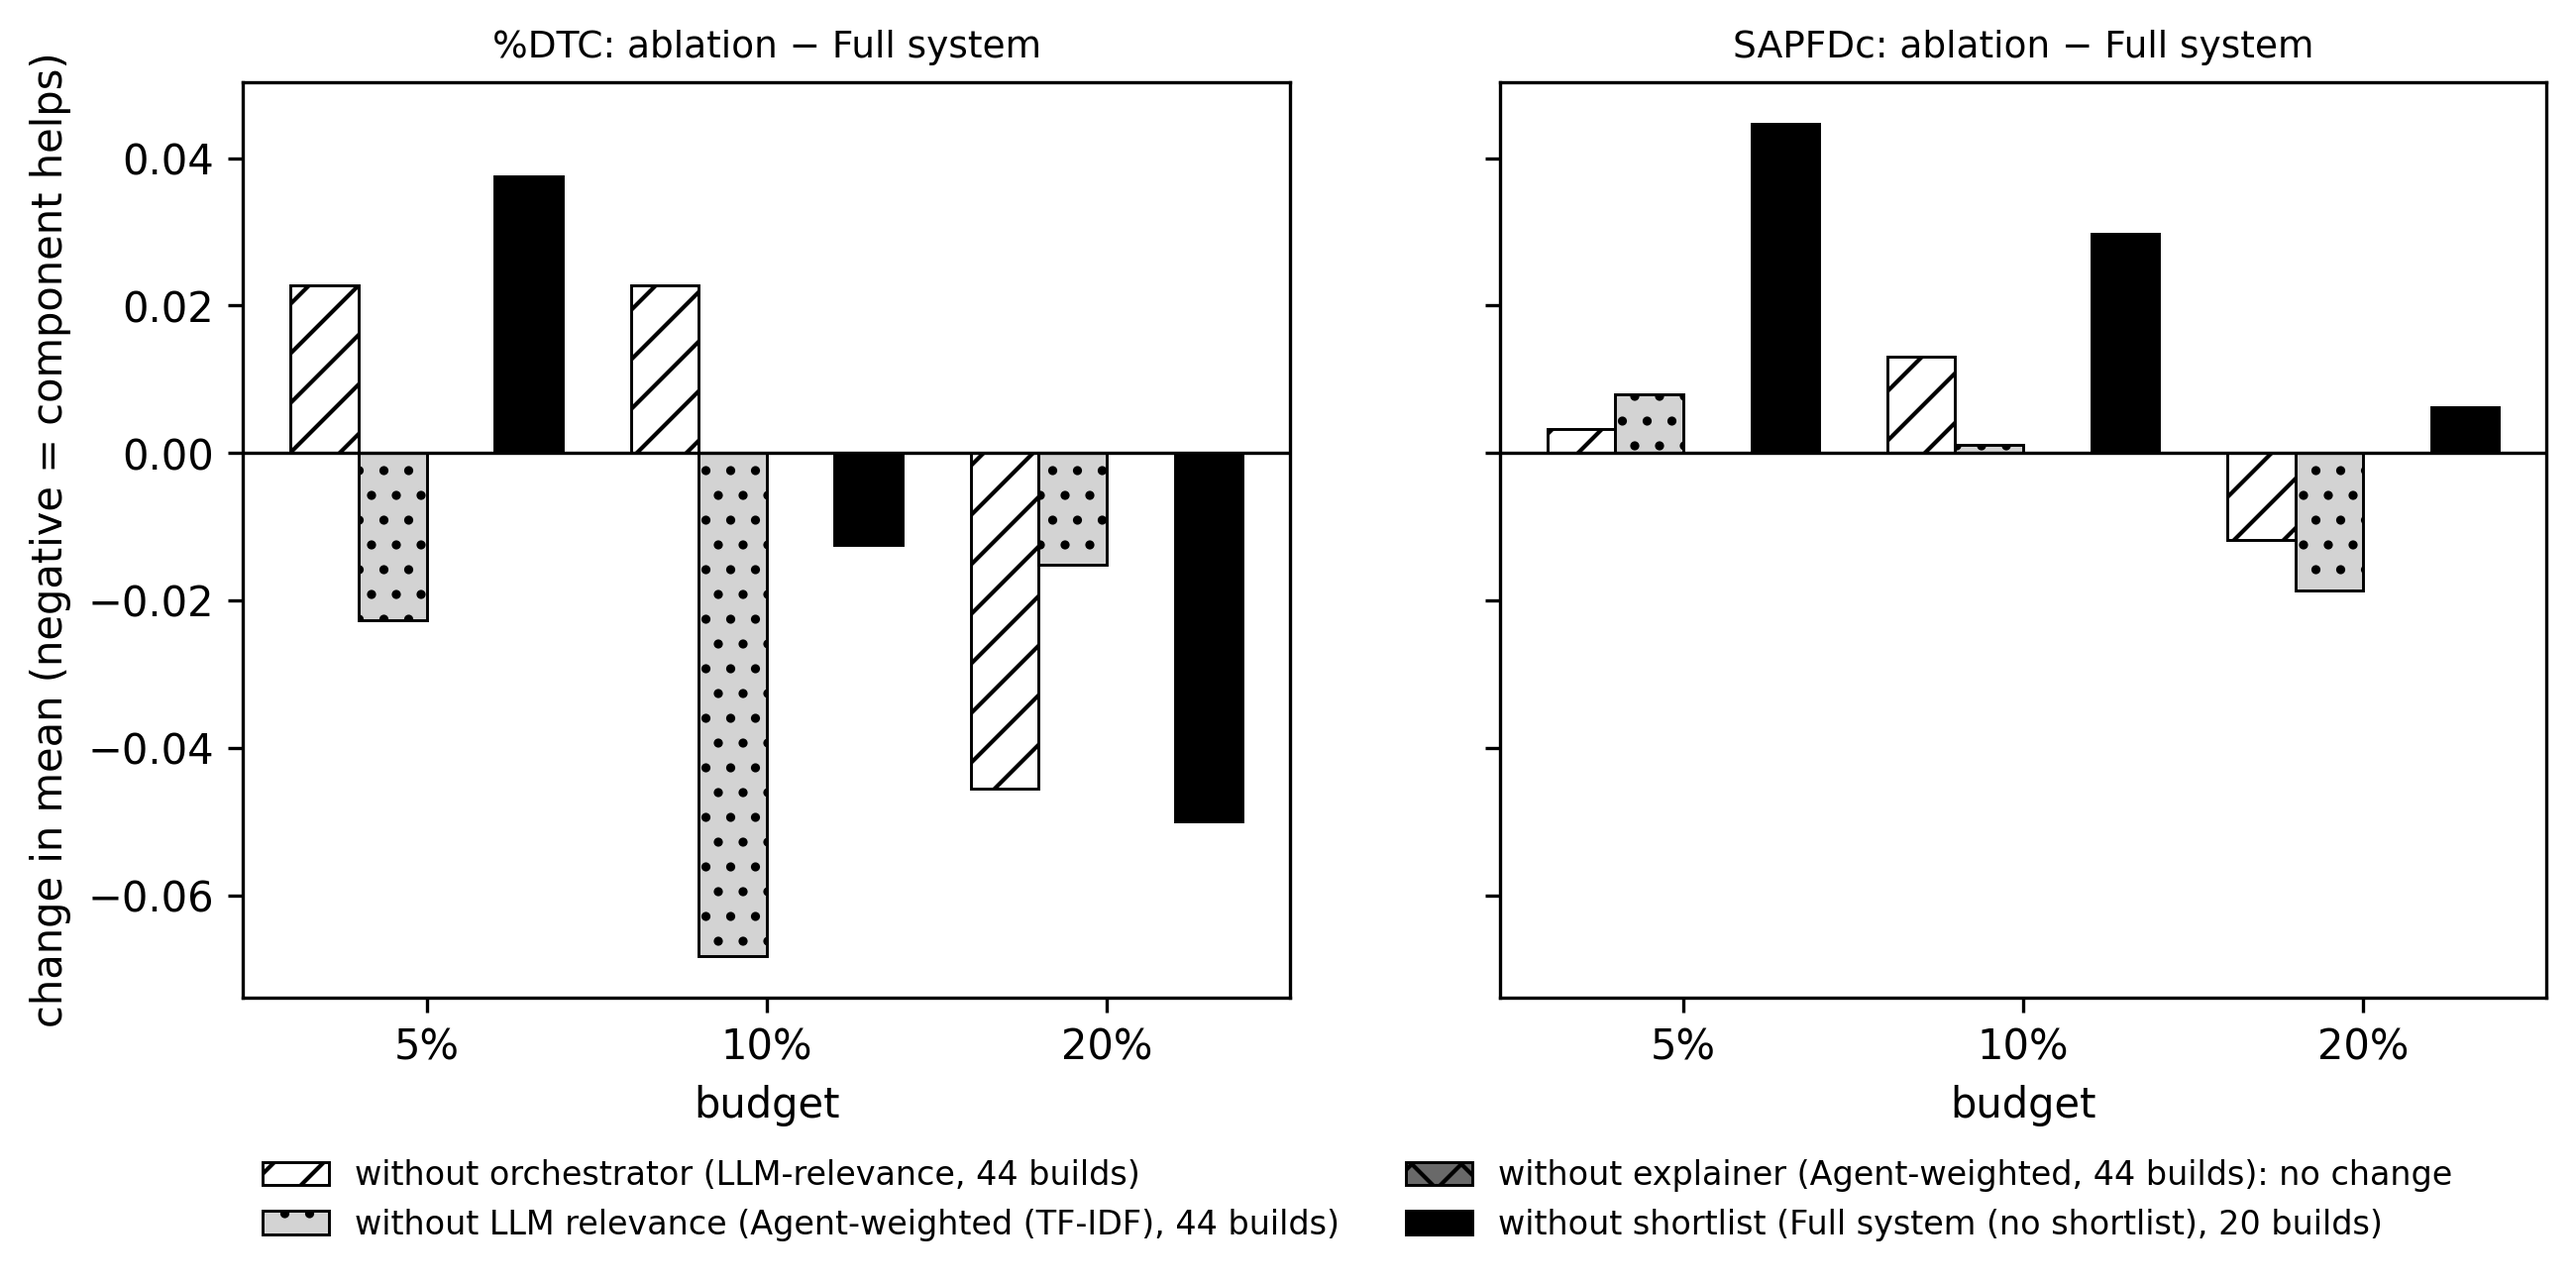
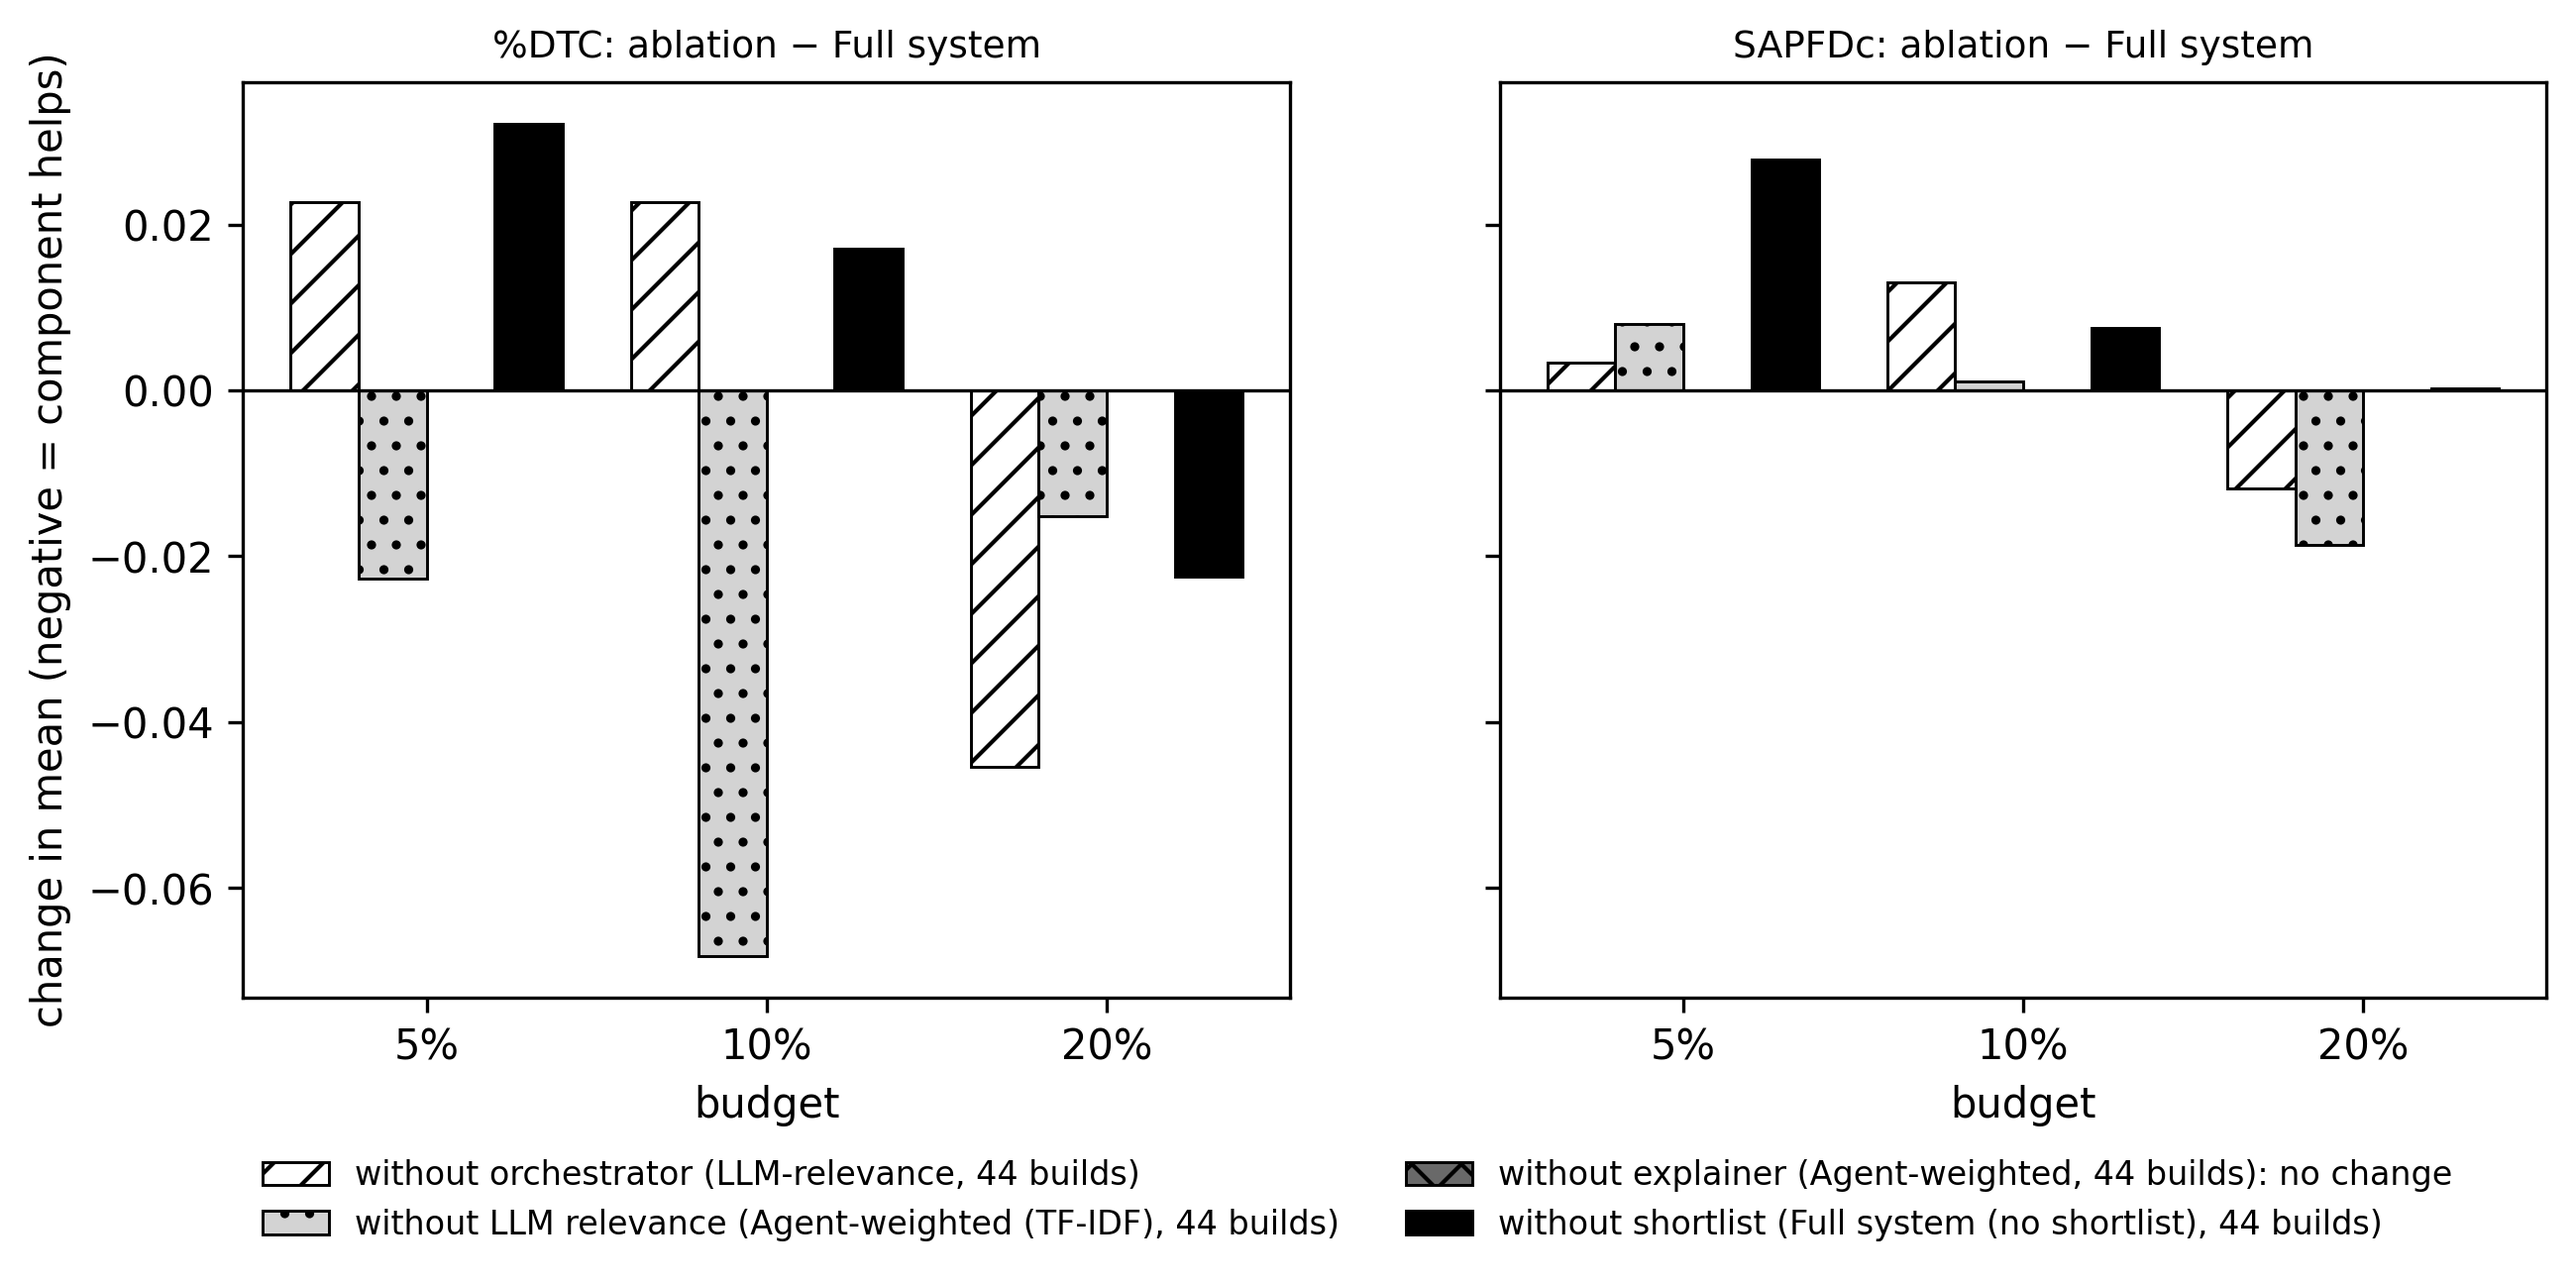
Regenerate the statistics, tables and figures with the full ablation
src.eval.stats and src.eval.report rerun on the committed per_build
files. pairwise.csv and friedman.csv are unchanged because the
no-shortlist method is not in comparisons.yaml; seed_variability.csv
gains its rows and the ablation now has standard deviations.

diff --git a/results/tables/efficiency.md b/results/tables/efficiency.md
@@ -1,6 +1,6 @@
 # Efficiency and reliability (E6)
 
-Written by `python -m src.eval.report`. Per build and run. Decision = relevance + orchestrator calls (tokens are for these calls; explainer tokens are in `explanations.csv`). Latencies are the original ones, also for answers taken from the LLM cache. Explainer columns use only runs with the explainer on. Fallback rate = share of builds whose relevance used the DANTE fallback or whose orchestrator fell back. GPU-hours = wall-clock hours of the runs containing the method (T4×2 session, `run_meta.json`); a run is shared by all its methods, so these hours are not exclusive. All test-split runs with the model: 6.36 h (10 runs); dev-split runs: 0.49 h (5 runs).
+Written by `python -m src.eval.report`. Per build and run. Decision = relevance + orchestrator calls (tokens are for these calls; explainer tokens are in `explanations.csv`). Latencies are the original ones, also for answers taken from the LLM cache. Explainer columns use only runs with the explainer on. Fallback rate = share of builds whose relevance used the DANTE fallback or whose orchestrator fell back. GPU-hours = wall-clock hours of the runs containing the method (T4×2 session, `run_meta.json`); a run is shared by all its methods, so these hours are not exclusive. All test-split runs with the model: 11.02 h (12 runs); dev-split runs: 0.49 h (5 runs).
 
 | Method | Builds × runs | LLM calls | Cached share | Tool calls | Prompt tokens | Completion tokens | Decision s | Relevance s | Orchestrator s | Explanation s | Explanations failed | Fallback rate | GPU-hours |
 |---|---|---|---|---|---|---|---|---|---|---|---|---|---|
@@ -10,4 +10,4 @@ Written by `python -m src.eval.report`. Per build and run. Decision = relevance 
 | Agent-weighted | 132 | 19.3 | 0.228 | 0.00 | 27645 | 1164 | 49.7 | 46.9 | 2.9 | — | — | 0.000 | 1.40 |
 | Full system | 132 | 19.3 | 0.228 | 0.00 | 27645 | 1164 | 49.7 | 46.9 | 2.9 | 101.2 | 0.247 | 0.000 | 1.40 |
 | Agent-weighted (TF-IDF) | 132 | 1.0 | 0.000 | 0.00 | 1780 | 46 | 2.0 | 0.0 | 2.0 | — | — | 0.000 | 0.08 |
-| Full system (no shortlist) | 20 | 200.5 | 0.327 | 0.00 | 279862 | 12084 | 562.3 | — | — | — | — | 0.000 | 1.10 |
+| Full system (no shortlist) | 132 | 198.6 | 0.401 | 0.00 | 278487 | 12000 | 522.6 | — | — | — | — | 0.000 | 5.77 |

diff --git a/results/tables/ablation.md b/results/tables/ablation.md
@@ -22,9 +22,9 @@ Written by `python -m src.eval.report`. Paired on the builds and seeds both meth
 | Agent-weighted | explainer | SAPFDc | 5% | 1;2;3 | 44 | 0.219 | 0.219 | 0.000 | — | — |
 | Agent-weighted | explainer | SAPFDc | 10% | 1;2;3 | 44 | 0.274 | 0.274 | 0.000 | — | — |
 | Agent-weighted | explainer | SAPFDc | 20% | 1;2;3 | 44 | 0.392 | 0.392 | 0.000 | — | — |
-| Full system (no shortlist) | shortlist | %DTC | 5% | 1 | 20 | 0.292 | 0.329 | 0.038 | — | — |
-| Full system (no shortlist) | shortlist | %DTC | 10% | 1 | 20 | 0.454 | 0.442 | -0.013 | — | — |
-| Full system (no shortlist) | shortlist | %DTC | 20% | 1 | 20 | 0.554 | 0.504 | -0.050 | — | — |
-| Full system (no shortlist) | shortlist | SAPFDc | 5% | 1 | 20 | 0.238 | 0.283 | 0.045 | — | — |
-| Full system (no shortlist) | shortlist | SAPFDc | 10% | 1 | 20 | 0.308 | 0.338 | 0.030 | — | — |
-| Full system (no shortlist) | shortlist | SAPFDc | 20% | 1 | 20 | 0.416 | 0.422 | 0.006 | — | — |
+| Full system (no shortlist) | shortlist | %DTC | 5% | 1;2;3 | 44 | 0.306 | 0.338 | 0.032 | — | — |
+| Full system (no shortlist) | shortlist | %DTC | 10% | 1;2;3 | 44 | 0.424 | 0.441 | 0.017 | — | — |
+| Full system (no shortlist) | shortlist | %DTC | 20% | 1;2;3 | 44 | 0.560 | 0.538 | -0.022 | — | — |
+| Full system (no shortlist) | shortlist | SAPFDc | 5% | 1;2;3 | 44 | 0.219 | 0.246 | 0.028 | — | — |
+| Full system (no shortlist) | shortlist | SAPFDc | 10% | 1;2;3 | 44 | 0.274 | 0.281 | 0.008 | — | — |
+| Full system (no shortlist) | shortlist | SAPFDc | 20% | 1;2;3 | 44 | 0.392 | 0.392 | 0.000 | — | — |

diff --git a/results/stats/summary.md b/results/stats/summary.md
@@ -1,6 +1,6 @@
 # Statistics (test split)
 
-Input: 11 per_build.csv file(s). Metrics are averaged over seeds per build first. Wilcoxon signed-rank (two-sided), Holm correction within each family (comparison × metric × budget), α = 0.05. Effect size r = matched-pairs rank-biserial correlation (positive = target better). Friedman mean rank 1 = best.
+Input: 13 per_build.csv file(s). Metrics are averaged over seeds per build first. Wilcoxon signed-rank (two-sided), Holm correction within each family (comparison × metric × budget), α = 0.05. Effect size r = matched-pairs rank-biserial correlation (positive = target better). Friedman mean rank 1 = best.
 
 ## RQ1: LLM-relevance vs others
 
@@ -162,6 +162,12 @@ Input: 11 per_build.csv file(s). Metrics are averaged over seeds per build first
 | Full system | 10% | sapfdc | 1;2;3 | 0.274 | 0.000 |
 | Full system | 20% | dtc | 1;2;3 | 0.560 | 0.013 |
 | Full system | 20% | sapfdc | 1;2;3 | 0.392 | 0.007 |
+| Full system (no shortlist) | 5% | dtc | 1;2;3 | 0.338 | 0.000 |
+| Full system (no shortlist) | 5% | sapfdc | 1;2;3 | 0.246 | 0.000 |
+| Full system (no shortlist) | 10% | dtc | 1;2;3 | 0.441 | 0.000 |
+| Full system (no shortlist) | 10% | sapfdc | 1;2;3 | 0.281 | 0.000 |
+| Full system (no shortlist) | 20% | dtc | 1;2;3 | 0.538 | 0.013 |
+| Full system (no shortlist) | 20% | sapfdc | 1;2;3 | 0.392 | 0.006 |
 | History-only | 5% | dtc | 1;2;3 | 0.282 | 0.000 |
 | History-only | 5% | sapfdc | 1;2;3 | 0.163 | 0.000 |
 | History-only | 10% | dtc | 1;2;3 | 0.398 | 0.000 |

diff --git a/results/tables/main_results.md b/results/tables/main_results.md
@@ -40,6 +40,6 @@ Written by `python -m src.eval.report`. %DTC and SAPFDc: mean over builds of the
 | Agent-weighted (TF-IDF) | 5% | 3 | 44 | 0.283 ± 0.000 | 0.227 ± 0.000 | 0.796 | 0.556 |
 | Agent-weighted (TF-IDF) | 10% | 3 | 44 | 0.356 ± 0.000 | 0.275 ± 0.000 | 0.796 | 0.521 |
 | Agent-weighted (TF-IDF) | 20% | 3 | 44 | 0.545 ± 0.000 | 0.373 ± 0.000 | 0.796 | 0.479 |
-| Full system (no shortlist) | 5% | 1 | 20 | 0.329 ± — | 0.283 ± — | 0.789 | 0.529 |
-| Full system (no shortlist) | 10% | 1 | 20 | 0.442 ± — | 0.338 ± — | 0.789 | 0.513 |
-| Full system (no shortlist) | 20% | 1 | 20 | 0.504 ± — | 0.422 ± — | 0.789 | 0.474 |
+| Full system (no shortlist) | 5% | 3 | 44 | 0.338 ± 0.000 | 0.246 ± 0.000 | 0.823 | 0.528 |
+| Full system (no shortlist) | 10% | 3 | 44 | 0.441 ± 0.000 | 0.281 ± 0.000 | 0.823 | 0.514 |
+| Full system (no shortlist) | 20% | 3 | 44 | 0.538 ± 0.013 | 0.392 ± 0.006 | 0.823 | 0.468 |

diff --git a/results/tables/gap3_w.md b/results/tables/gap3_w.md
@@ -5,5 +5,5 @@ Written by `python -m src.eval.report`. From `orchestrator_decisions.csv` of the
 | Relevance source | Methods | Runs | Decisions | min | Q1 | median | Q3 | max | mean | distinct w | share w = 2/3 | fallback share |
 |---|---|---|---|---|---|---|---|---|---|---|---|---|
 | llm_shortlist | Agent-weighted, Full system | 3 | 132 | 0.20 | 0.30 | 0.70 | 0.70 | 0.80 | 0.509 | 4 | 0.000 | 0.000 |
-| llm_all_individual | Full system (no shortlist) | 1 | 20 | 0.20 | 0.20 | 0.30 | 0.70 | 0.80 | 0.455 | 4 | 0.000 | 0.000 |
+| llm_all_individual | Full system (no shortlist) | 3 | 132 | 0.20 | 0.30 | 0.70 | 0.70 | 0.80 | 0.505 | 4 | 0.000 | 0.000 |
 | tfidf | Agent-weighted (TF-IDF) | 3 | 132 | 0.30 | 0.70 | 0.70 | 0.70 | 0.80 | 0.718 | 3 | 0.000 | 0.000 |
